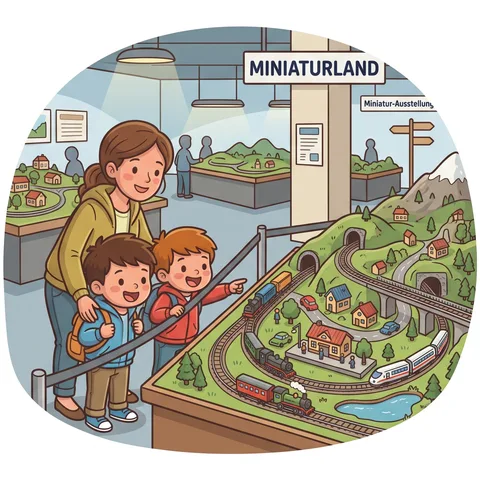
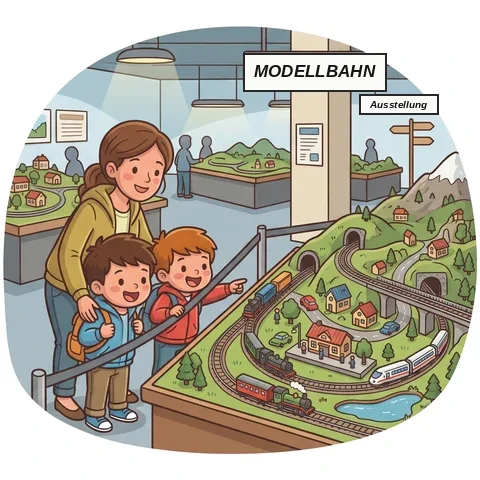
Karte Ausflug: neutrale Schilder (Modellbahn) statt geschütztem Namen, in beiden Versionen
Claude-Session: https://claude.ai/code/session_01MTaPtrLkxmTGsAxz8by5Q7

Changed region(s): [[0.5, 0.0938, 0.9375, 0.25]]

diff --git a/src/lib/vorlagen.ts b/src/lib/vorlagen.ts
@@ -52,7 +52,7 @@ export const VORLAGEN: Vorlage[] = [
   { titel: 'Kuchen essen', bild: 'kuchen', minuten: 0, abschnitt: 'nachmittag' },
   { titel: 'Geburtstag', bild: 'geburtstag', minuten: 0, abschnitt: 'nachmittag' },
   // Ausflüge
-  { titel: 'Ausflug Miniaturland', bild: 'miniaturland', minuten: 0, abschnitt: 'vormittag' },
+  { titel: 'Ausflug Modellbahn', bild: 'miniaturland', minuten: 0, abschnitt: 'vormittag' },
   { titel: 'Ausflug Zoo', bild: 'zoo', minuten: 0, abschnitt: 'vormittag' },
   // Einkaufen
   { titel: 'Einkaufen', bild: 'einkaufen', minuten: 0, abschnitt: 'vormittag' },

diff --git a/src/lib/iconliste.ts b/src/lib/iconliste.ts
@@ -112,7 +112,7 @@ export const ICON_LIST: IconInfo[] = [
   { id: "arzt", name: "Arzt", group: "Unterwegs" },
   { id: "telefon", name: "Telefonieren", group: "Unterwegs" },
   { id: "wecker", name: "Aufstehen", group: "Unterwegs" },
-  { id: "miniaturland", name: "Ausflug Miniaturland", group: "Unterwegs" },
+  { id: "miniaturland", name: "Ausflug Modellbahn", group: "Unterwegs" },
   { id: "zoo", name: "Ausflug Zoo", group: "Unterwegs" },
   { id: "einkaufen", name: "Einkaufen", group: "Einkaufen" },
   { id: "croissant", name: "Bäcker", group: "Einkaufen" },
